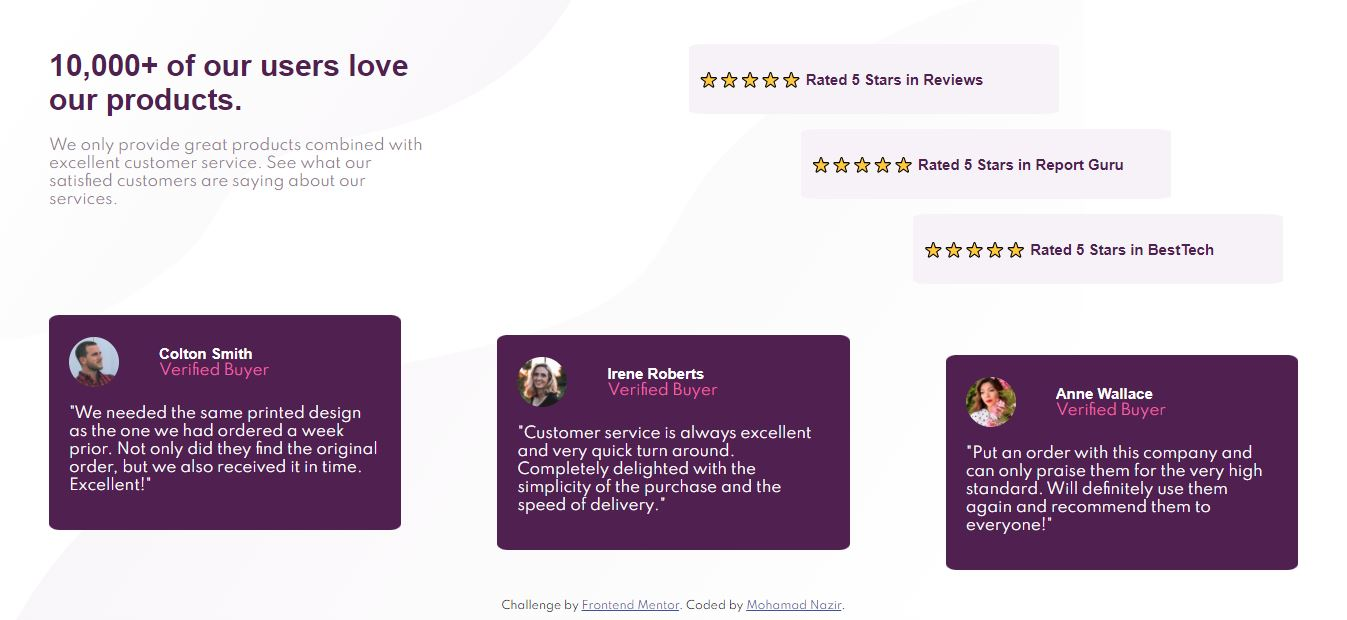
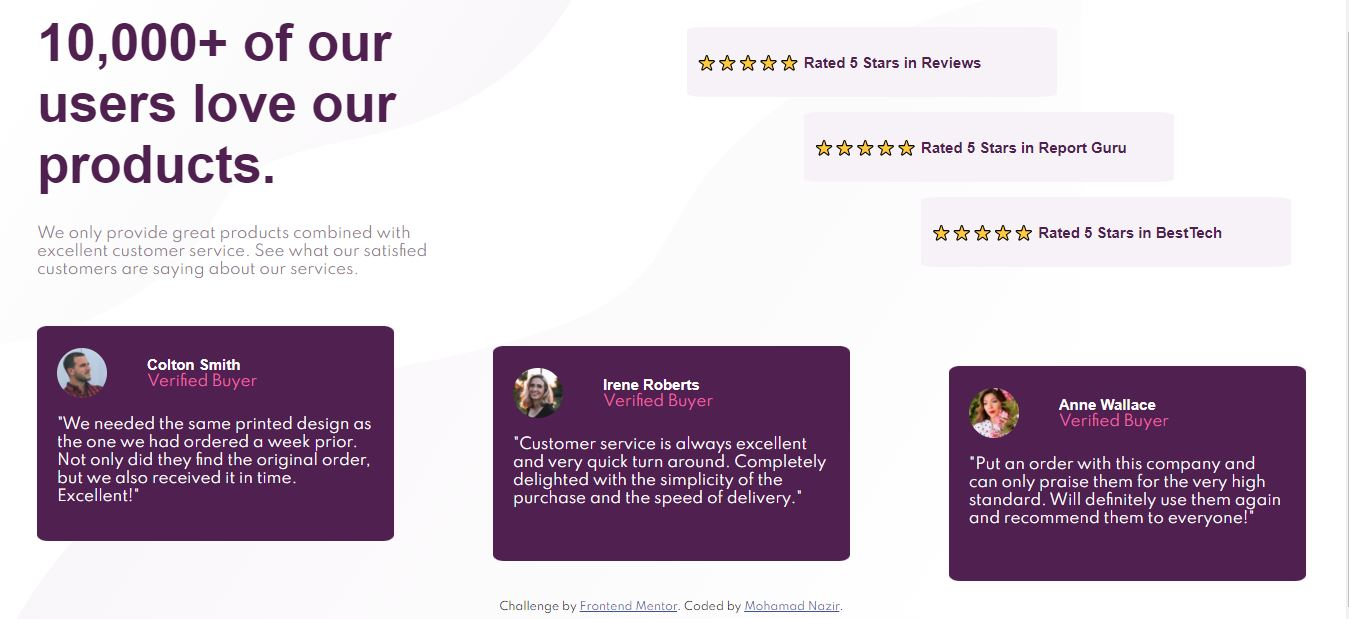
edit header

diff --git a/css/styles.css b/css/styles.css
@@ -12,7 +12,7 @@ body {
     background-repeat: no-repeat;
     font-size: 15px;
     font-family: 'Spartan', sans-serif;
-    margin: 50px 50px 10px;
+    margin: 30px 40px 10px;
 }
 
 h1,
@@ -36,12 +36,13 @@ h4 {
 }
 
 .box-header h1 {
-    margin-right: 250px;
+    margin: 0 150px 30px 0;
+    font-size: 3.5em;
 }
 
 .box-header p {
     color: var(--Dark-Grayish-Magenta);
-    margin-right: 250px;
+    margin-right: 200px;
 }
 
 .box-rating {
@@ -137,7 +138,7 @@ h4 {
 }
 
 .attribution {
-    margin-top: 30px;
+    margin-top: 20px;
     font-size: 11px;
     text-align: center;
 }
